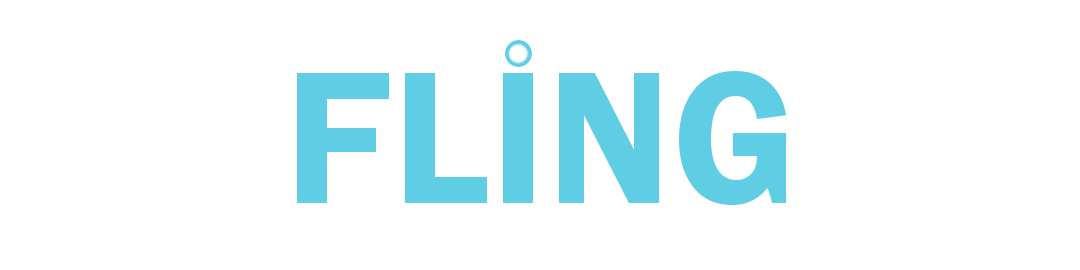
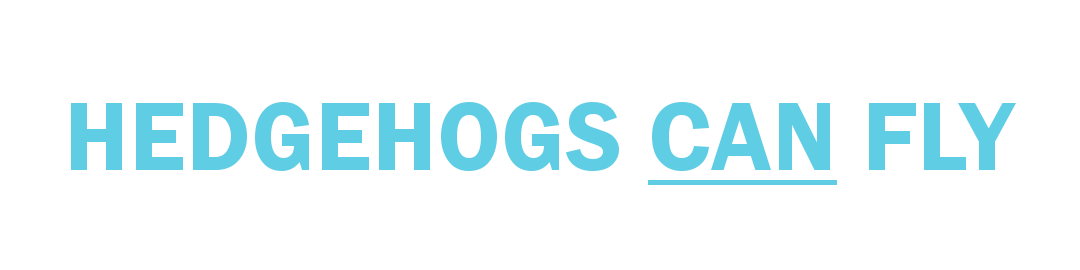
Changed name

Changed region(s): [[0.0611, 0.1481, 0.9472, 0.7704]]

diff --git a/ballfling/menu_state.cpp b/ballfling/menu_state.cpp
@@ -23,6 +23,10 @@ StateMenu::StateMenu(World *world) : State(world) {
     sprTitle.setTexture(txtTitle);
     sprTitle.setOrigin(txtTitle.getSize().x / 2.f, txtTitle.getSize().y / 2.f);
     sprTitle.setPosition(WINDOW_WIDTH / 2.f, 150.f);
+
+    txtHog.loadFromFile("data/ball.png");
+    sprHog.setTexture(txtHog);
+    sprHog.setOrigin(txtHog.getSize().x / 2.f, txtHog.getSize().y / 2.f);
 }
 
 void StateMenu::on_event(sf::Event &event) {
@@ -30,12 +34,12 @@ void StateMenu::on_event(sf::Event &event) {
 
 void StateMenu::on_tick() {
     static float time = 0.f;
-    static float size = 1.f;
+    static float size = 0.6f;
     static float rot  = 0.f;
-    
+
     size += sin(time) * .002f;
     rot   = sin(time) * 1.6f;
-    
+
     sprTitle.setScale(sf::Vector2f(size, size));
     sprTitle.setRotation(rot);
 
@@ -43,19 +47,24 @@ void StateMenu::on_tick() {
 
 
     static sf::Vector2f pos(WINDOW_WIDTH / 2.f, WINDOW_HEIGHT / 2.f);
-    float speed = 4.f;
+    float speed = 2.f;
     static sf::Vector2f vel(util::rnd(-speed, speed), util::rnd(-speed, speed));
     sf::Vector2f next = pos + vel;
-    if (next.x < 0.f || next.x > WINDOW_WIDTH) vel.x = -vel.x;
-    if (next.y < 0.f || next.y > WINDOW_HEIGHT) vel.y = -vel.y;
+    if (next.x < 0.f + 10.f || next.x > WINDOW_WIDTH - 10.f)  vel.x = -vel.x;
+    if (next.y < 0.f + 10.f || next.y > WINDOW_HEIGHT - 10.f) vel.y = -vel.y;
     pos += vel;
-    add_particle(pos, sf::Vector2f(), sf::Vector2f(0.f, 0.f), sf::Color(95, 205, 228), 240);
+    //add_particle(pos, sf::Vector2f(), sf::Vector2f(0.f, 0.f), sf::Color(95, 205, 228), 240);
+    sprHog.setPosition(pos);
 
     particles_tick(sf::Vector2f());
 }
 
 void StateMenu::on_draw(sf::RenderWindow &window) {
     particles_draw(window, sf::Vector2f());
+    static float angle = 0.f;
+    angle += .5f;
+    sprHog.setRotation(angle);
+    window.draw(sprHog);
     window.draw(sprTitle);
 }
 

diff --git a/ballfling/menu_state.h b/ballfling/menu_state.h
@@ -23,6 +23,6 @@ public:
     void on_notify(Event event, void *data);
 
 private:
-    sf::Texture txtTitle;
-    sf::Sprite sprTitle;
+    sf::Texture txtTitle, txtHog;
+    sf::Sprite sprTitle, sprHog;
 };

diff --git a/ballfling/build_options.h b/ballfling/build_options.h
@@ -8,7 +8,7 @@
 #define VERSION_MAJOR 0
 #define VERSION_MINOR 1
 
-#define TITLE "Fling"
+#define TITLE "Hedgehogs Can Fly"
 
 #define GRAVITY 0.15f
 
